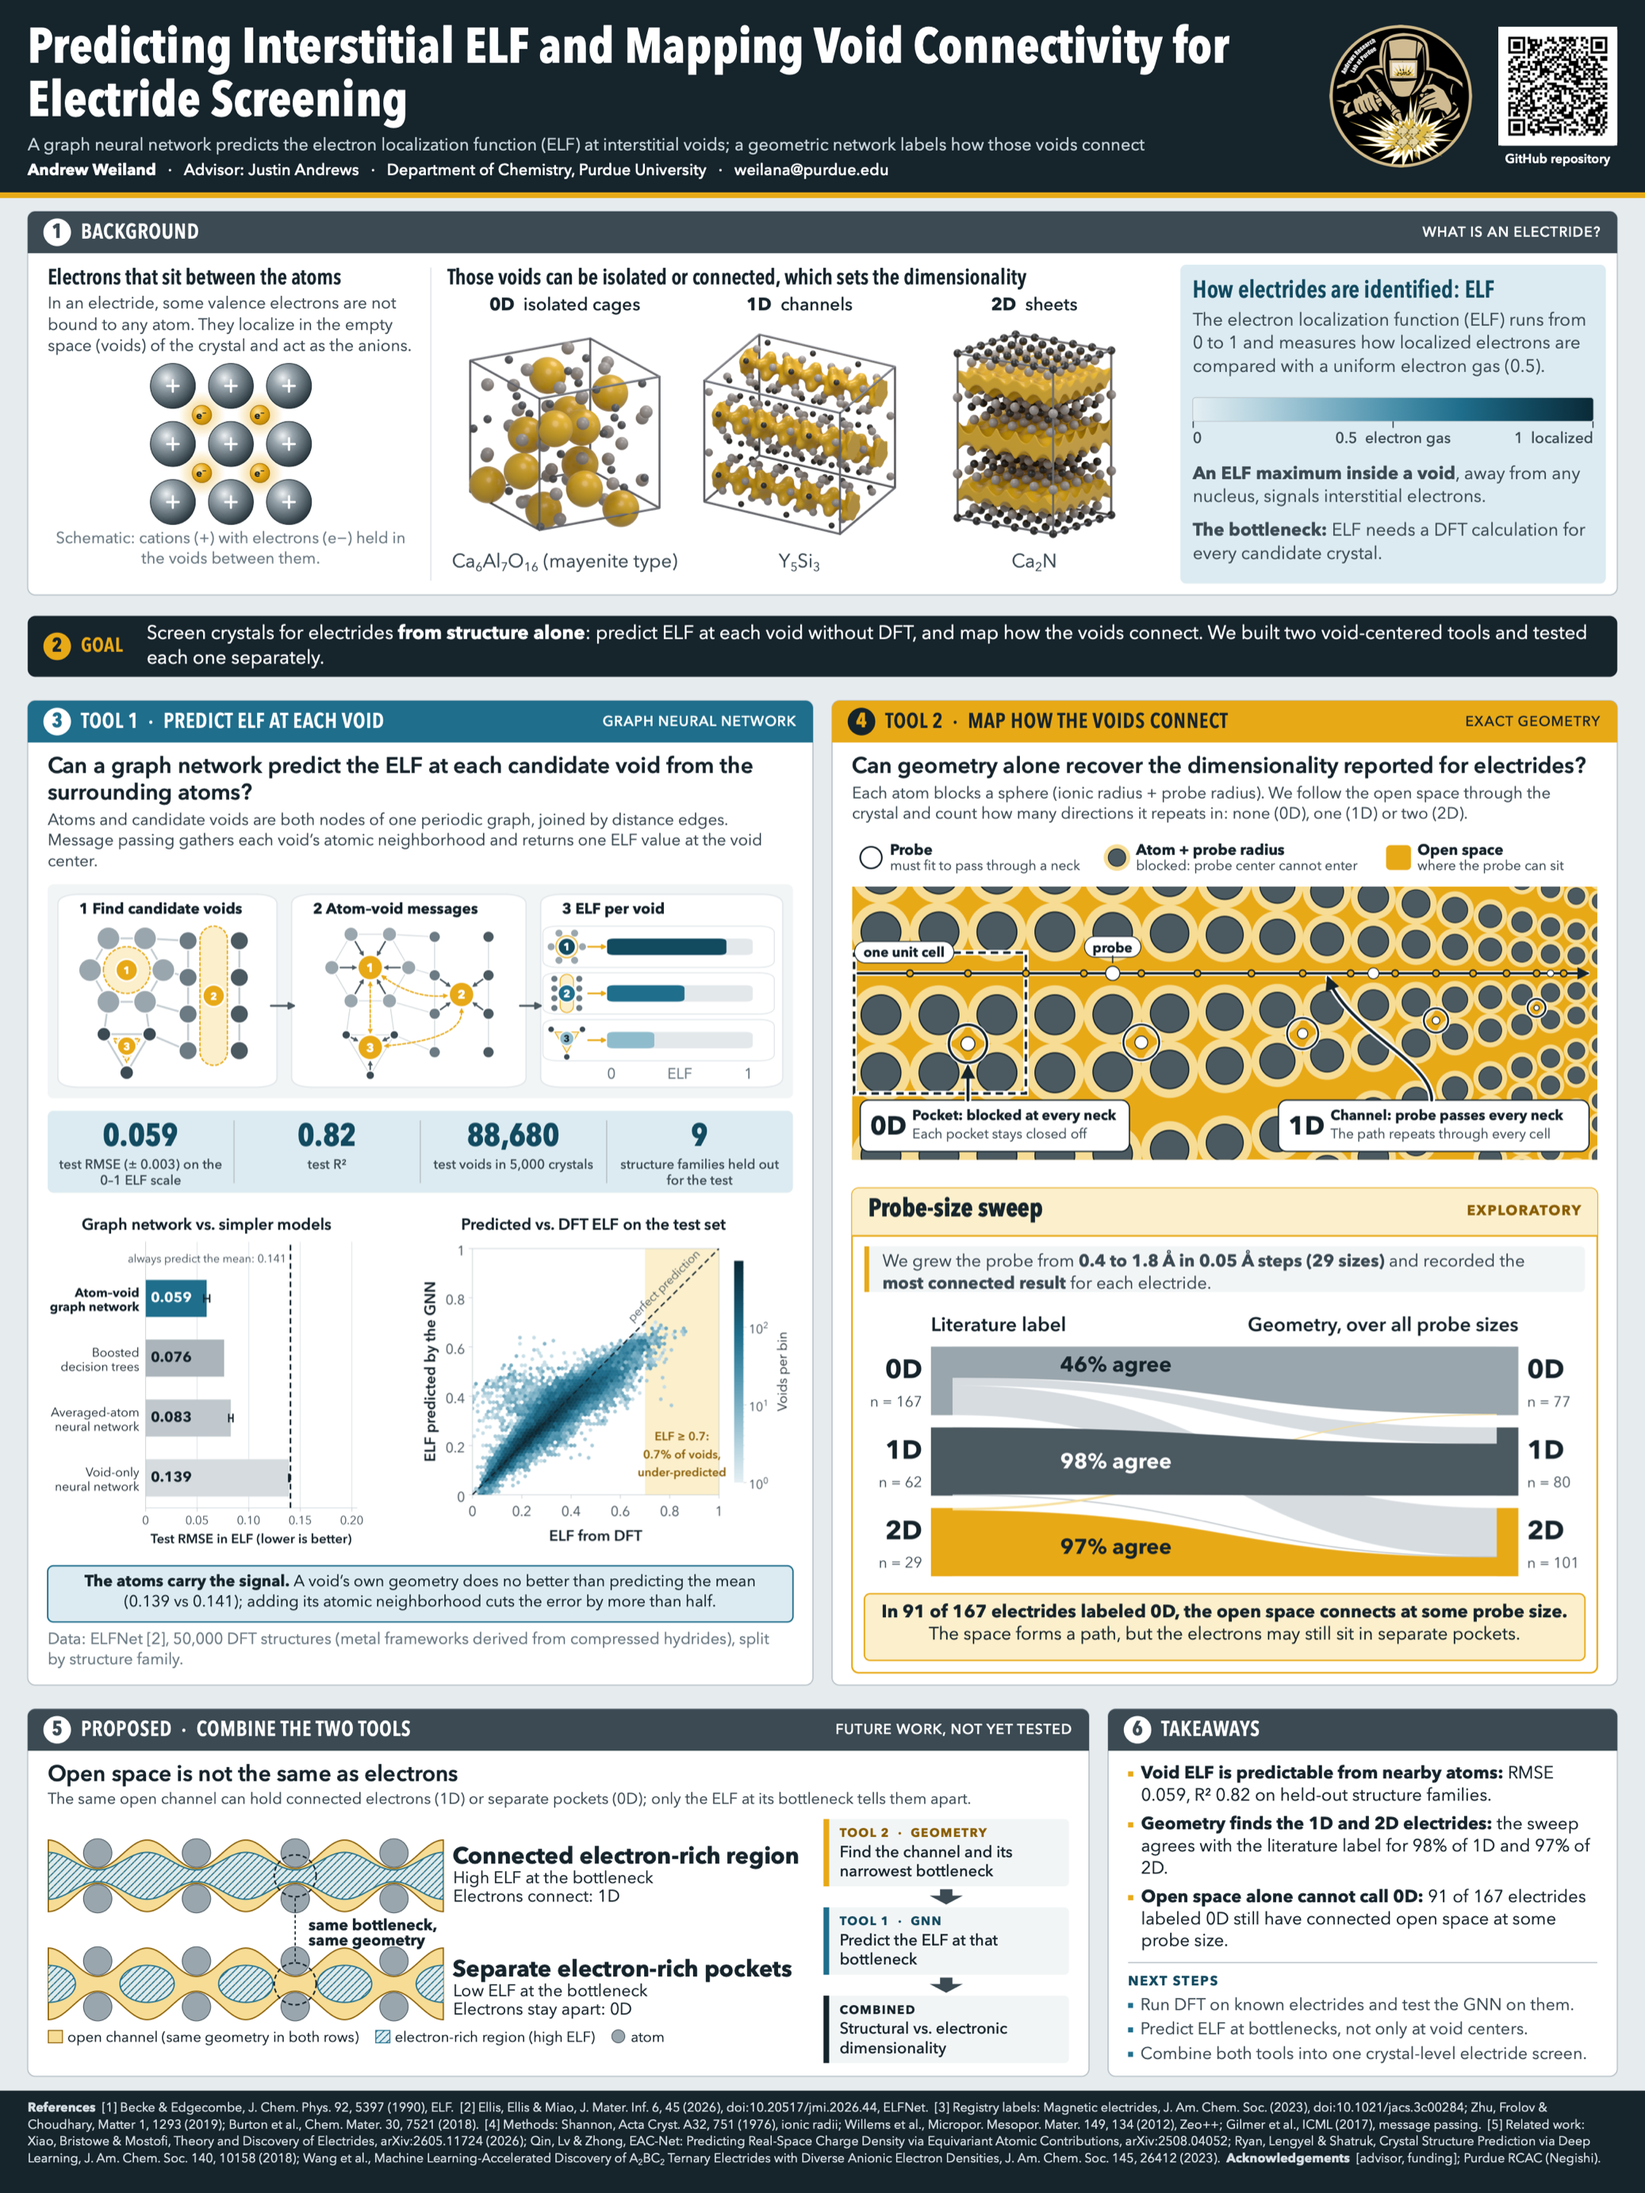
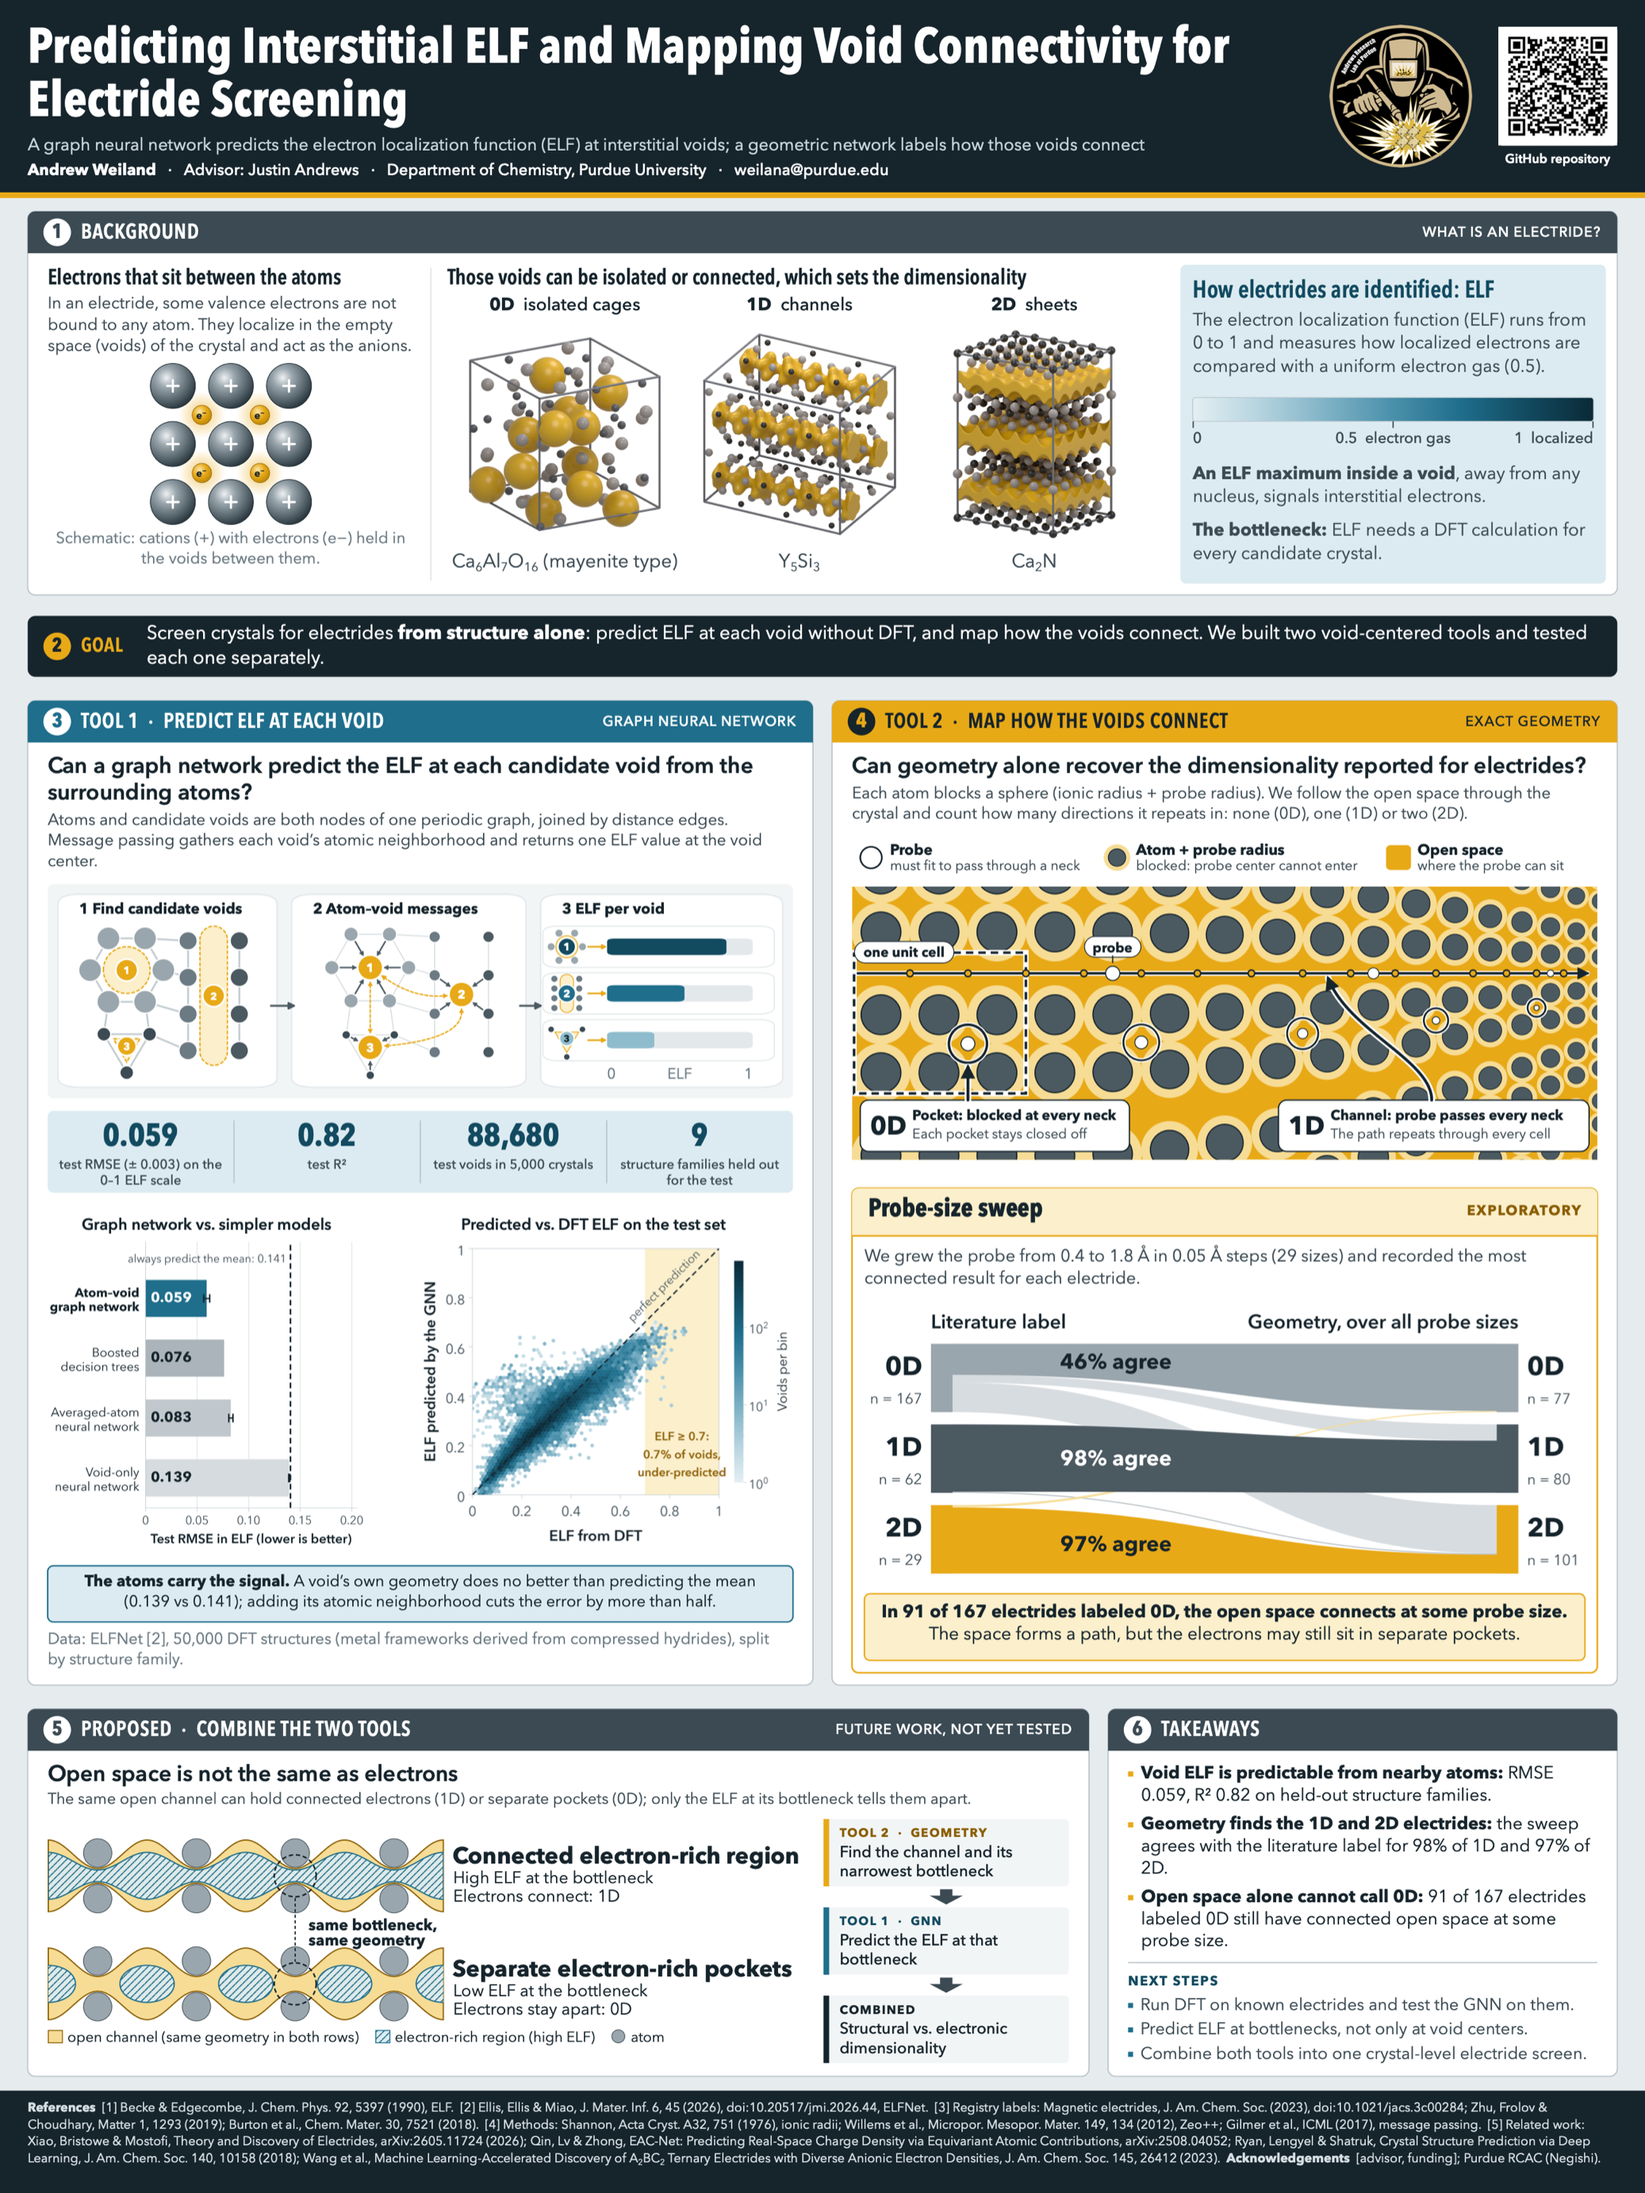
Poster v4: plain-text probe range note

Changed region(s): [[0.5246, 0.5599, 0.9566, 0.7154]]

diff --git a/poster/build/build_poster_v4.py b/poster/build/build_poster_v4.py
@@ -407,11 +407,9 @@ p.text(x + 34, SP_TOP + 34, w - 68, "EXPLORATORY", 22, T.GEO_DARK, 700, align="e
 CALL2 = 140
 cy = SP_BOT - SP_PAD - CALL2
 iw = w - 2 * SP_PAD
-CAP_Y, CAP_H = SP_TOP + SP_HEAD + 22, 96
-p.rect(x + SP_PAD, CAP_Y, iw, CAP_H, T.SOFT, 10, label="Sweep note")
-p.rect(x + SP_PAD, CAP_Y, 10, CAP_H, T.GEO, 0)
-p.text(x + SP_PAD + 38, CAP_Y + 15, iw - 70, "We grew the probe from **0.4 to 1.8 Å in 0.05 Å steps (29 sizes)** and recorded "
-       "the **most connected result** for each electride.", 27, T.INK_2, lh=1.3)
+CAP_Y, CAP_H = SP_TOP + SP_HEAD + 22, 84
+p.text(x + SP_PAD, CAP_Y + 4, iw, "We grew the probe from 0.4 to 1.8 Å in 0.05 Å steps (29 sizes) and recorded "
+       "the most connected result for each electride.", 27, T.INK_2, lh=1.3)
 fy = CAP_Y + CAP_H + 14
 fh = iw * FLOW_ASPECT
 avail = cy - 16 - fy
